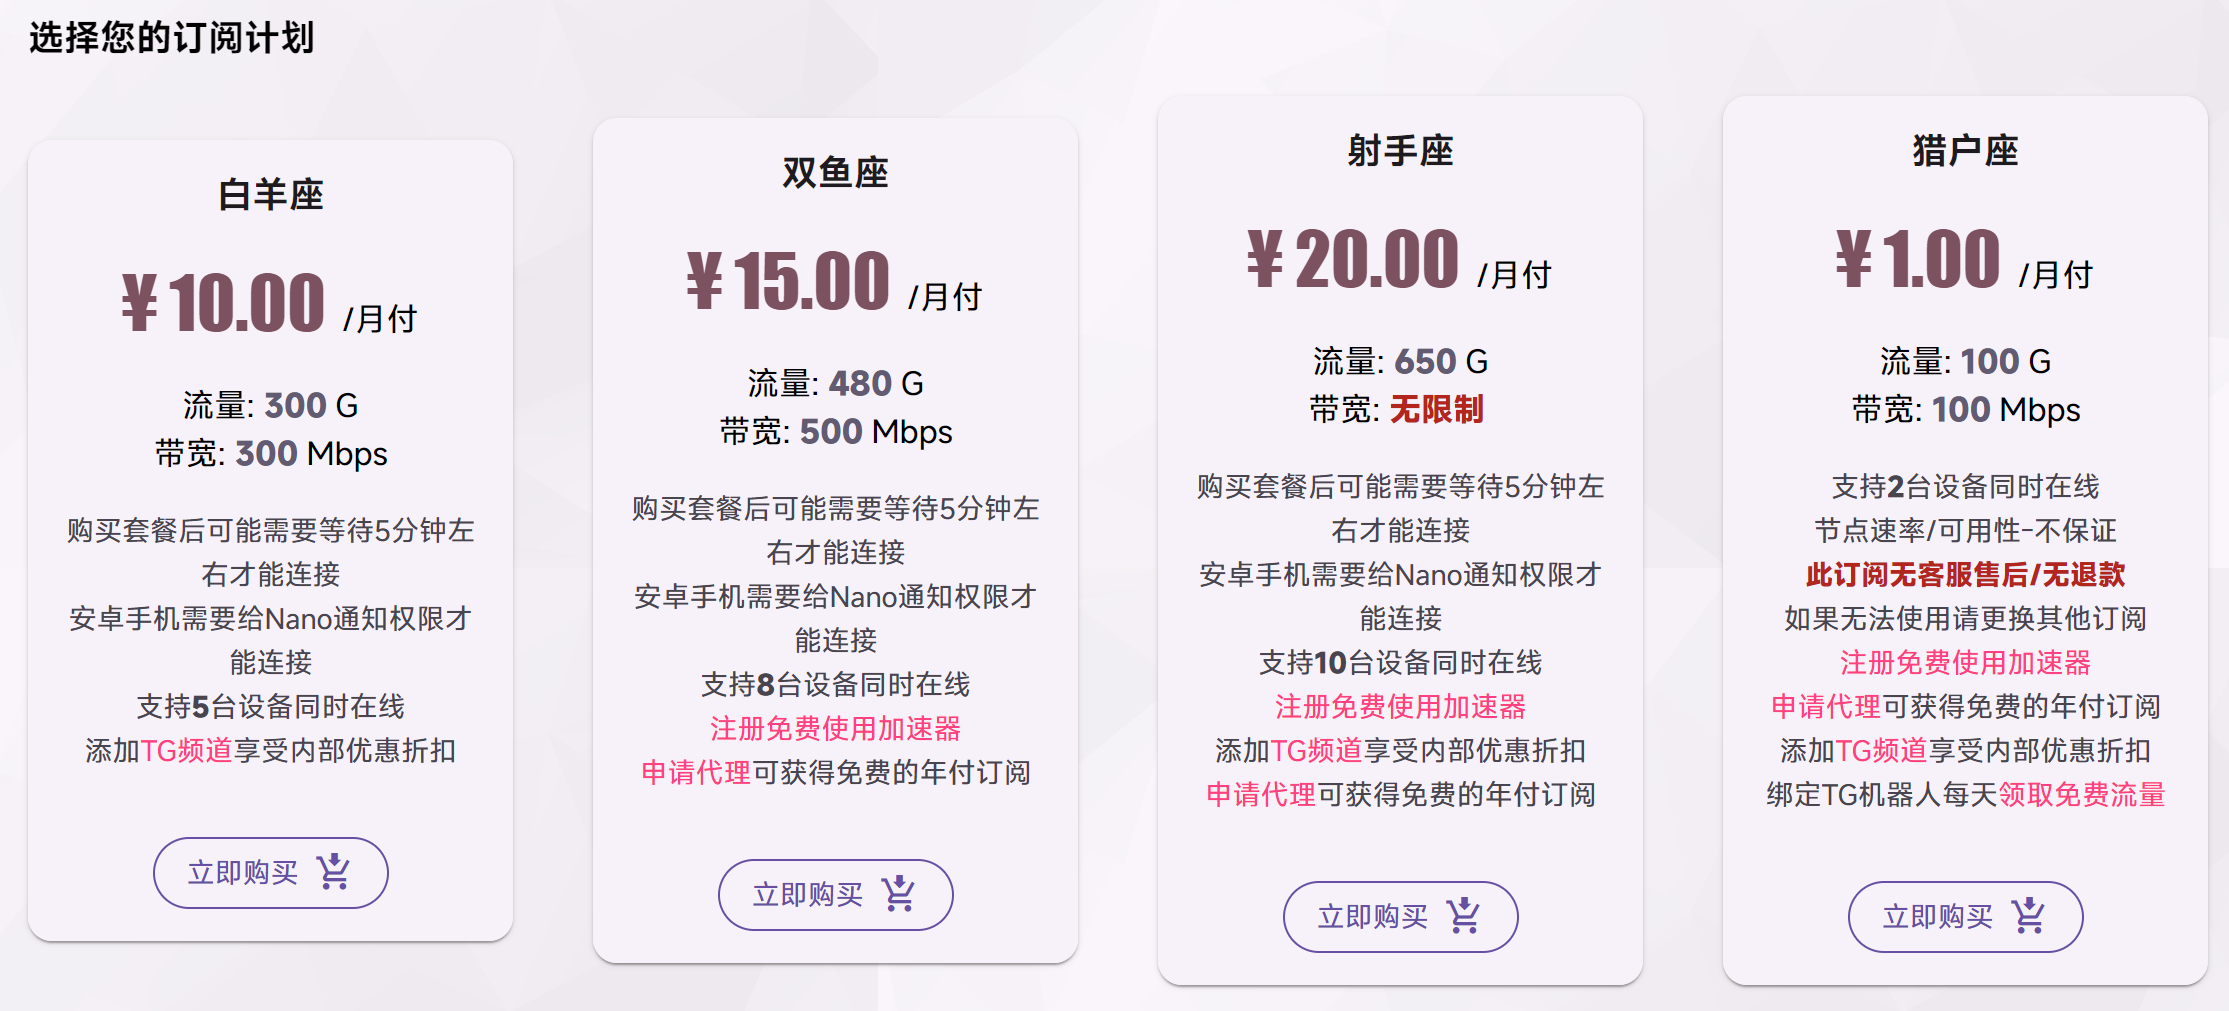
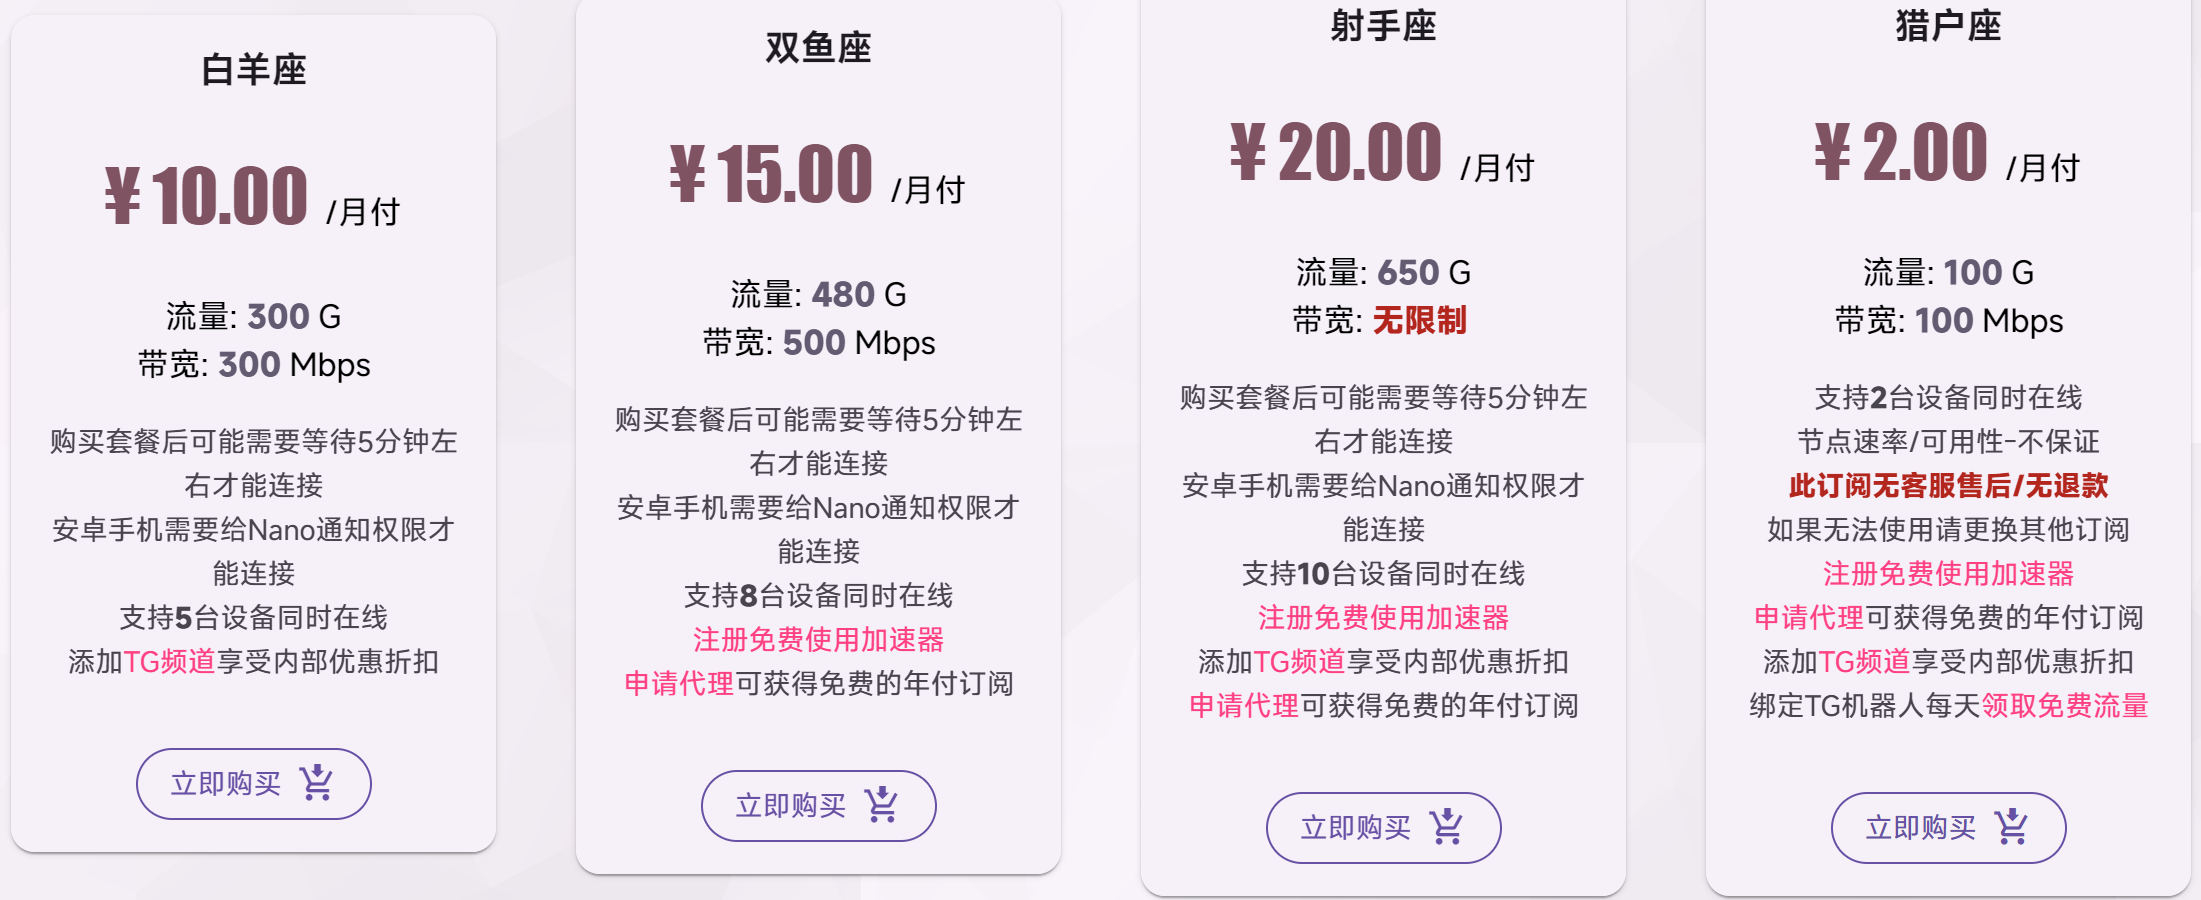
Update NanoCloud plans and dashboard images

diff --git a/trial.html b/trial.html
@@ -19,7 +19,7 @@
   <meta charset="utf-8">
   <meta name="viewport" content="width=device-width, initial-scale=1">
   <title>NanoCloud 试用与套餐：2 天 5G，月付 1 元起</title>
-  <meta name="description" content="NanoCloud 2 天 5G 白羊座试用，月付 ¥1 起。先用自己的设备、AI、流媒体和晚高峰网络跑一遍，再决定套餐。">
+  <meta name="description" content="NanoCloud 2 天 5G 白羊座试用，月付 ¥2 起。先用自己的设备、AI、流媒体和晚高峰网络跑一遍，再决定套餐。">
   <link rel="canonical" href="https://nanocloud-release.github.io/NanoCloud/trial.html">
   <link rel="stylesheet" href="assets/site.css?v=20260905-1">
   <link rel="preload" href="assets/site.css?v=20260905-1" as="style">
@@ -36,7 +36,7 @@
 
   <div class="promo-ribbon" id="offer">
     <div class="marketing-shell promo-inner">
-      <p><span>限时年付优惠</span> 9 月 4 日至 9 月 9 日，白羊座、双鱼座和射手座年付 85 折。</p>
+      <p><span>限时年付优惠</span> 9 月 4 日至 9 月 9 日，请以官方控制台当前价格和优惠为准。</p>
       <button class="promo-code" type="button" data-copy="KFZQWM" aria-label="复制优惠码 KFZQWM"><span>KFZQWM</span><small data-copy-label>点击复制</small></button>
     </div>
   </div>
@@ -47,7 +47,7 @@
         <div class="marketing-hero-copy">
           <p class="marketing-eyebrow"><span class="marketing-live-dot"></span>2 天 / 5G 试用</p>
           <h1>先试用<br><em>再决定套餐</em></h1>
-          <p class="marketing-lead">NanoCloud 月付 ¥1 起，四档套餐覆盖 100–650G 流量。把自己的设备、常用网站和晚高峰任务跑一遍，合适再付费。</p>
+          <p class="marketing-lead">NanoCloud 月付 ¥2 起，四档套餐覆盖 100–650G 流量。把自己的设备、常用网站和晚高峰任务跑一遍，合适再付费。</p>
           <div class="marketing-actions">
             <a class="marketing-button marketing-button-primary" rel="sponsored nofollow" href="https://edu.yuque.men/auth/register?code=KGPt0kjX&amp;utm_source=github_pages&amp;utm_medium=referral&amp;utm_campaign=nanocloud_trial&amp;utm_content=hero">开始 2 天试用 <span>↗</span></a>
             <a class="marketing-button marketing-button-secondary" href="#plans">查看套餐价格 <span>↓</span></a>
@@ -95,25 +95,7 @@
           <p>价格和库存以控制台当前显示为准。下面的配置适合快速筛选，真实体验仍应以自己的网络测试为准。</p>
         </div>
         <div class="marketing-plan-grid">
-          <article class="marketing-plan">
-            <div class="marketing-plan-top"><span>猎户座</span><strong>¥1<small>/月</small></strong></div>
-            <p class="marketing-plan-spec">100G · 100Mbps · 2 台</p>
-            <p>临时或备用线路。不保证速率和可用性，无售后、无退款。</p>
-            <a href="plans.html">查看边界 <span>→</span></a>
-          </article>
-          <article class="marketing-plan marketing-plan-featured">
-            <div class="marketing-plan-badge">试用对应套餐</div>
-            <div class="marketing-plan-top"><span>白羊座</span><strong>¥10<small>/月</small></strong></div>
-            <p class="marketing-plan-spec">300G · 300Mbps · 5 台</p>
-            <p>日常主力，适合多设备和 AI 登录任务，购买后可退款。</p>
-            <a href="plans.html">查看边界 <span>→</span></a>
-          </article>
-          <article class="marketing-plan">
-            <div class="marketing-plan-top"><span>双鱼座</span><strong>¥15<small>/月</small></strong></div>
-            <p class="marketing-plan-spec">480G · 500Mbps · 8 台</p>
-            <p>适合高流量和多设备使用，购买后可退款。</p>
-            <a href="plans.html">查看边界 <span>→</span></a>
-          </article>
+          
           <article class="marketing-plan">
             <div class="marketing-plan-top"><span>射手座</span><strong>¥20<small>/月</small></strong></div>
             <p class="marketing-plan-spec">650G · 不限速 · 10 台</p>

diff --git a/plans.html b/plans.html
@@ -57,9 +57,7 @@
       <div class="marketing-shell">
         <div class="marketing-section-intro"><p class="marketing-eyebrow">四档套餐</p><h2>套餐配置</h2><p>每档套餐的价格、流量、速率和设备数不同。按实际月度流量和同时在线设备数选择。</p></div>
         <div class="marketing-pricing-grid">
-          <article id="plan-orion" class="marketing-price-card"><div class="marketing-price-top"><span>猎户座</span><strong>¥1<small>/月</small></strong></div><p class="marketing-price-spec">100G · 100Mbps · 2 台</p><p>临时或备用线路。不保证速率和可用性，无售后、无退款。</p><a href="trial.html">先用试用验证 <span>→</span></a></article>
-          <article id="plan-aries" class="marketing-price-card marketing-price-card-featured"><span class="marketing-price-badge">试用对应套餐</span><div class="marketing-price-top"><span>白羊座</span><strong>¥10<small>/月</small></strong></div><p class="marketing-price-spec">300G · 300Mbps · 5 台</p><p>日常主力，适合多设备和 AI 登录任务，购买后可退款。</p><a href="trial.html">开始白羊座试用 <span>→</span></a></article>
-          <article id="plan-pisces" class="marketing-price-card"><div class="marketing-price-top"><span>双鱼座</span><strong>¥15<small>/月</small></strong></div><p class="marketing-price-spec">480G · 500Mbps · 8 台</p><p>适合高流量和多设备使用，购买后可退款。</p><a href="trial.html">查看试用清单 <span>→</span></a></article>
+          
           <article id="plan-sagittarius" class="marketing-price-card"><div class="marketing-price-top"><span>射手座</span><strong>¥20<small>/月</small></strong></div><p class="marketing-price-spec">650G · 不限速 · 10 台</p><p>适合家庭共享和重度使用，购买后可退款。</p><a href="trial.html">查看试用清单 <span>→</span></a></article>
         </div>
       </div>
@@ -78,7 +76,7 @@
         <div class="marketing-scenario-grid">
           <article><span>01</span><h3>日常与备用</h3><p>设备少、访问量低，先看猎户座能否覆盖你的月度流量。</p></article>
           <article><span>02</span><h3>AI 与登录</h3><p>重点观察长对话、验证码和登录网站，白羊座是更均衡的起点。</p></article>
-          <article><span>03</span><h3>流媒体与大流量</h3><p>在晚高峰测持续播放和重连次数，再考虑双鱼座或射手座。</p></article>
+          <article><span>03</span><h3>流媒体与大流量</h3><p>在晚高峰测持续播放和重连次数，再考虑射手座。</p></article>
           <article><span>04</span><h3>固定 IP 与企业用途</h3><p>先确认业务是否接受共享出口。NanoCloud 不提供家宽、IEPL/IPLC 或中转。</p></article>
         </div>
         <div class="marketing-boundary"><div><strong>适合</strong><p>低预算、大流量、多地区和不想维护服务器的用户。</p></div><div><strong>不提供</strong><p>家宽、IEPL/IPLC 专线、中转，以及固定或独享出口 IP。</p></div></div>

diff --git a/README.md b/README.md
@@ -1,19 +1,19 @@
 # NanoCloud 机场：1 元起、2 天 5G 试用与客户端指南
 
-NanoCloud 月付 ¥1 起，最高一档 ¥20。四档套餐提供 100–650G 流量，可同时连接 2–10 台设备。
+NanoCloud 月付 ¥2 起，最高一档 ¥20。四档套餐提供 100–650G 流量，可同时连接 2–10 台设备。
 想先确认自己的线路是否合适，可以通过 AFF 入口领取白羊座 2 天 / 5G 试用。
 下面按注册、客户端、节点、测试和排障的顺序整理。
 
 ![最低月付](https://img.shields.io/badge/最低月付-¥1-1f883d)
 ![白羊座试用](https://img.shields.io/badge/AFF试用-2天%20%7C%205G-0969da)
-![每月流量](https://img.shields.io/badge/每月流量-100G--650G-b54708)
+![每月流量](https://img.shields.io/badge/每月流量-100G--600G-b54708)
 ![同时在线](https://img.shields.io/badge/同时在线-2--10台-8250df)
 
 **[限时年付优惠：9 月 4 日至 9 月 9 日使用 `KFZQWM` 享 85 折](#限时年付优惠码)**
 
 ## NanoCloud 能提供什么
 
-- 四档套餐，分别提供 100G（100Mbps）、300G（300Mbps）、480G（500Mbps）和 650G（不限速）月流量。
+- 四档套餐，分别提供 100G（200Mbps）、300G（500Mbps）和 600G（1000Mbps）月流量。
 - 香港、东京、新加坡、美国西部等地区节点，协议包括 VLESS、TUIC、Hysteria2 和 mieru。
 - 官方客户端按教程配置即可，不用像 Clash Verge 那样自己维护一套复杂配置。
 - [@NanoAir_bot](https://t.me/NanoAir_bot) 可以购买、获取订阅、每日签到（每月最高 90G）和提交工单。
@@ -39,7 +39,7 @@ NanoCloud 月付 ¥1 起，最高一档 ¥20。四档套餐提供 100–650G 流
 
 > **优惠码：`KFZQWM`**
 > 有效期：**2026 年 9 月 4 日至 9 月 9 日**（含首尾日期）
-> 年付专属 **85 折**，适用于白羊座、双鱼座和射手座套餐。
+> 年付专属 **85 折**，适用于白羊座和射手座套餐。
 
 购买时将付款周期切换为“年付”，在订单中填写 `KFZQWM`，并确认页面显示折扣后再提交。优惠码不适用于月付。
 
@@ -73,20 +73,19 @@ NanoCloud 月付 ¥1 起，最高一档 ¥20。四档套餐提供 100–650G 流
 
 ![NanoCloud 控制台套餐页](assets/nanocloud-plans.png)
 
-*截图时间为 2026 年 7 月 14 日。*
+*套餐数据核对时间为 2026 年 10 月 1 日，来源为官方公开页面配置。*
 
 | 套餐 | 月付 | 流量 | 带宽 | 设备 | 适合 |
 | --- | ---: | ---: | ---: | ---: | --- |
-| 猎户座 | ¥1 | 100G | 100Mbps | 2 台 | 临时或备用；不保证速率/可用性，无售后、无退款 |
-| 白羊座 | ¥10 | 300G | 300Mbps | 5 台 | 日常主力，也是试用对应套餐，购买后可退款 |
-| 双鱼座 | ¥15 | 480G | 500Mbps | 8 台 | 高流量和多设备，可退款 |
-| 射手座 | ¥20 | 650G | 不限速 | 10 台 | 家庭共享与重度使用，可退款 |
+| 猎户座 | ¥1 | 100G | 200Mbps | 2 台 | 临时或备用；不保证速率/可用性，无售后、无退款 |
+| 白羊座 | ¥10 | 300G | 500Mbps | 5 台 | 日常主力，也是试用对应套餐，购买后可退款 |
+| 射手座 | ¥20 | 600G | 1000Mbps | 10 台 | 家庭共享与重度使用，可退款 |
 
 ### 优惠码适用说明与续费换购
 
-已有猎户座、白羊座、双鱼座或射手座套餐的用户，也可以使用优惠码购买或升级年付订阅。更换套餐时请同时参考下方的抵扣规则。
+已有猎户座、白羊座或射手座套餐的用户，也可以使用优惠码购买或升级年付订阅。更换套餐时请同时参考下方的抵扣规则。
 
-如果流量需求不大，可以和朋友合购一个白羊座、双鱼座或射手座年付套餐。请自行管理账号和订阅地址，避免将订阅分享给无关人员；同时在线设备上限分别为白羊座 5 台、双鱼座 8 台、射手座 10 台。
+如果流量需求不大，可以和朋友合购一个白羊座或射手座年付套餐。请自行管理账号和订阅地址，避免将订阅分享给无关人员；同时在线设备上限分别为白羊座 5 台、射手座 10 台。
 
 ### 续费与换购
 
